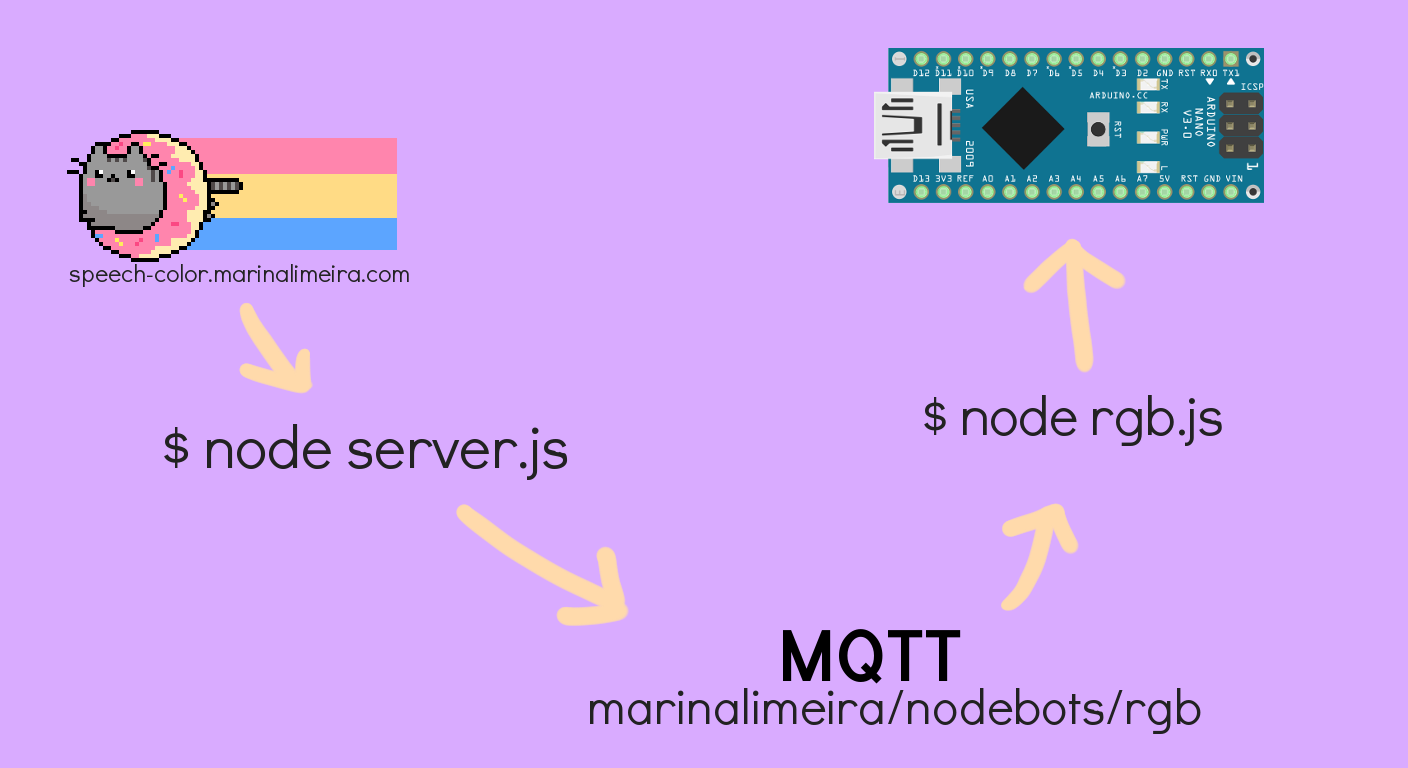
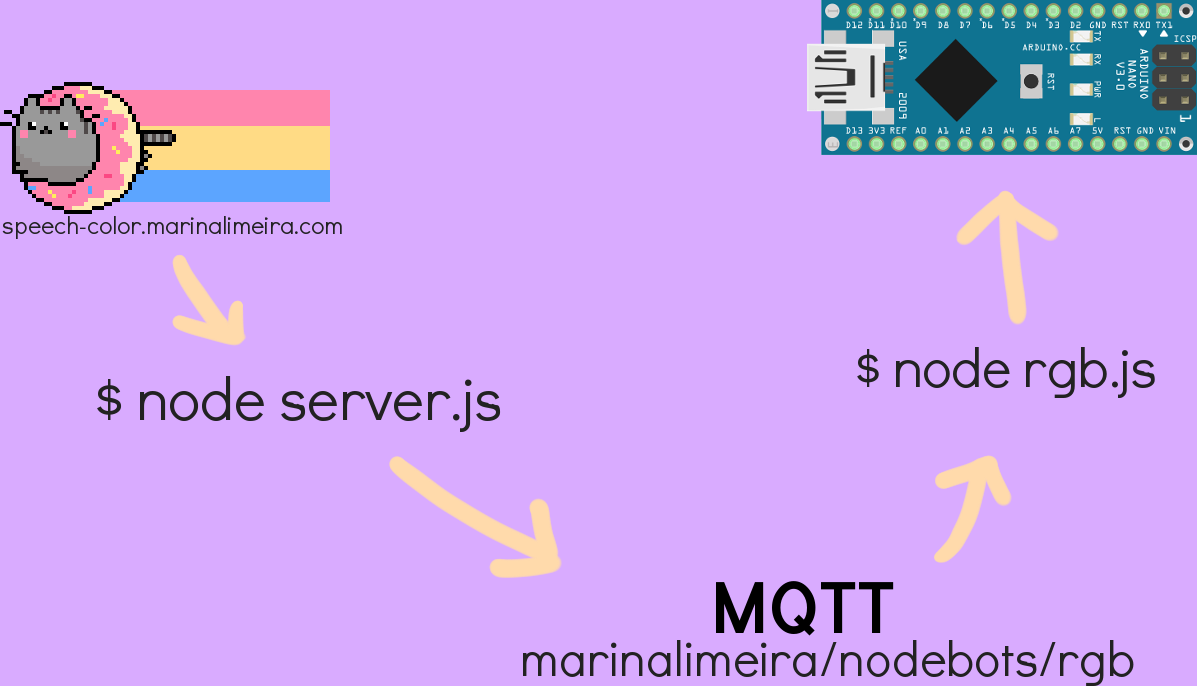
Update highlight css
- Add arduino-firmata imgs

diff --git a/index.html b/index.html
@@ -8,7 +8,9 @@
 
 		<link rel="stylesheet" href="css/reveal.css">
 		<link rel="stylesheet" href="css/theme.css">
-    <link rel="stylesheet" href="lib/css/github.css">
+    <!-- <link rel="stylesheet" href="lib/css/github.css"> -->
+
+<link rel="stylesheet" href="lib/css/color-brewer.css">
     <link rel="icon" type="image/x-icon" href="favicon.ico">
 	</head>
   <body>
@@ -99,13 +101,20 @@ robótica envolve matematica. npm te ajuda com isso. peças de lego. mqtt. reque
 </aside>
 </section>
 
-        <section>
-          <h1>Firmata</h1>
+        <!-- <section> -->
+          <!-- <h1>Firmata</h1> -->
+        <!-- </section> -->
+
+    <section data-background="#D9ABFF">
+  <img src="images/pc-arduino.png" alt="" />
 <aside class="notes">
   protocolo generico de comunicacao a partir de software hospedado em um computador. api q permite utilizar js. então... arduino nao ta rodando js de verdade. quem vai rodar o js pra gente,
 </aside>
-        </section>
+</section>
 
+    <section data-background="#D9ABFF">
+  <img src="images/pc-arduino-firmata.png" alt="" />
+</section>
         <section data-background="#f6dd25">
           <img src="images/johnny-five-logo.png"/>
 <aside class="notes">
@@ -115,7 +124,7 @@ robótica envolve matematica. npm te ajuda com isso. peças de lego. mqtt. reque
 
       <section>
         <pre>
-          <code data-trim data-noscape>
+          <code data-noscape>
 var five = require("johnny-five");
 
 five.Board().on("ready", function() {
@@ -126,6 +135,25 @@ five.Board().on("ready", function() {
           </code>
         </pre>
       </section>
+
+<section>
+        <pre>
+          <code data-trim data-noscape>
+int led = 13;
+
+void setup() {
+  pinMode(led, OUTPUT);
+}
+
+void loop() {
+  digitalWrite(led, HIGH);
+  delay(500);
+  digitalWrite(led, LOW);
+  delay(500);
+}
+          </code>
+        </pre>
+</section>
 
 <!-- GIF MUITO PESADO, COMPRIMIR? -->
       <section data-background="images/led-rgb.gif">

diff --git a/lib/css/color-brewer.css b/lib/css/color-brewer.css
@@ -1,0 +1,71 @@
+/*
+
+Colorbrewer theme
+Original: https://github.com/mbostock/colorbrewer-theme (c) Mike Bostock <mike@ocks.org>
+Ported by Fabrício Tavares de Oliveira
+
+*/
+
+.hljs {
+  display: block;
+  overflow-x: auto;
+  padding: 0.5em;
+  background: #fff;
+}
+
+.hljs,
+.hljs-subst {
+  color: #000;
+}
+
+.hljs-string,
+.hljs-meta,
+.hljs-symbol,
+.hljs-template-tag,
+.hljs-template-variable,
+.hljs-addition {
+  color: #756bb1;
+}
+
+.hljs-comment,
+.hljs-quote {
+  color: #636363;
+}
+
+.hljs-number,
+.hljs-regexp,
+.hljs-literal,
+.hljs-bullet,
+.hljs-link {
+  color: #31a354;
+}
+
+.hljs-deletion,
+.hljs-variable {
+  color: #88f;
+}
+
+
+
+.hljs-keyword,
+.hljs-selector-tag,
+.hljs-title,
+.hljs-section,
+.hljs-built_in,
+.hljs-doctag,
+.hljs-type,
+.hljs-tag,
+.hljs-name,
+.hljs-selector-id,
+.hljs-selector-class,
+.hljs-strong {
+  color: #3182bd;
+}
+
+.hljs-emphasis {
+  font-style: italic;
+}
+
+.hljs-attribute {
+  color: #e6550d;
+}
